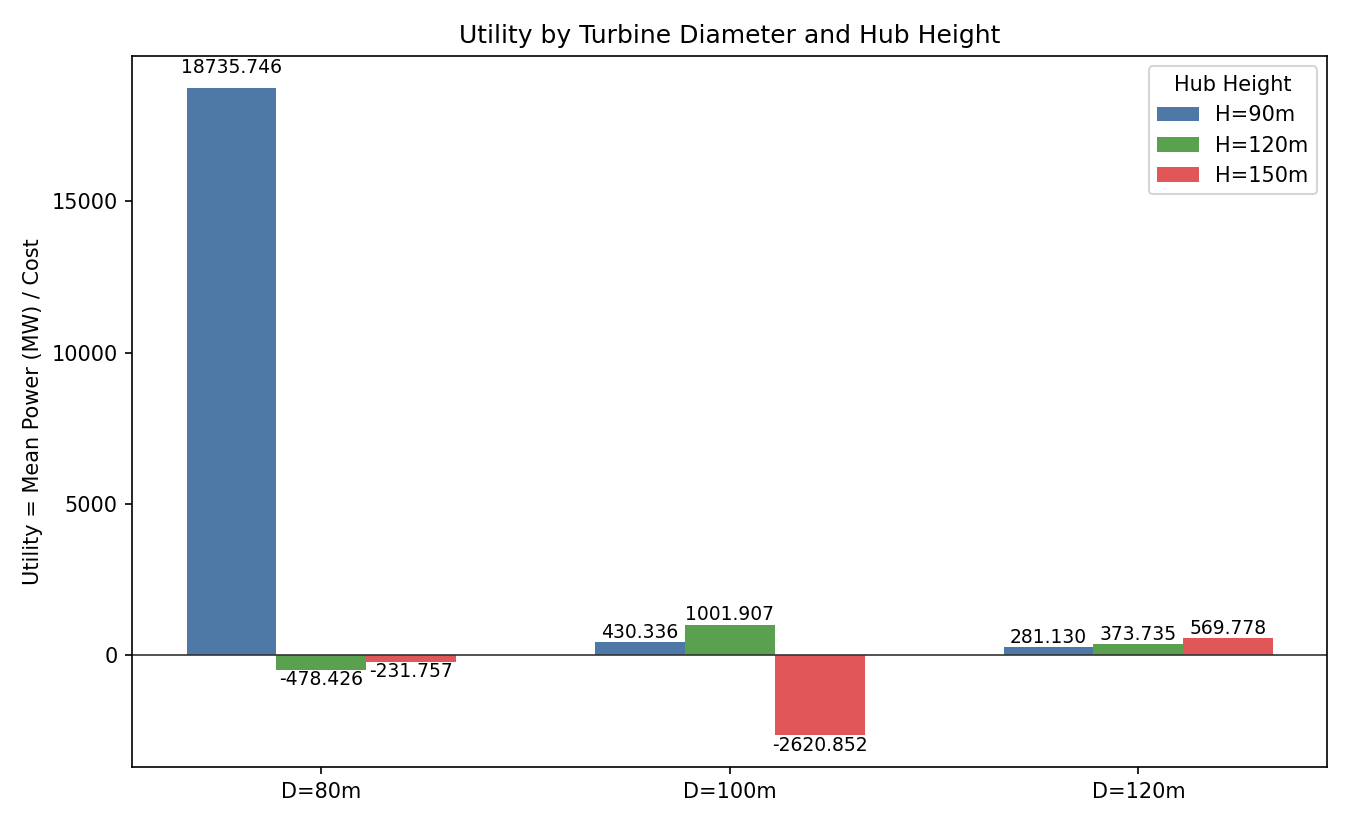
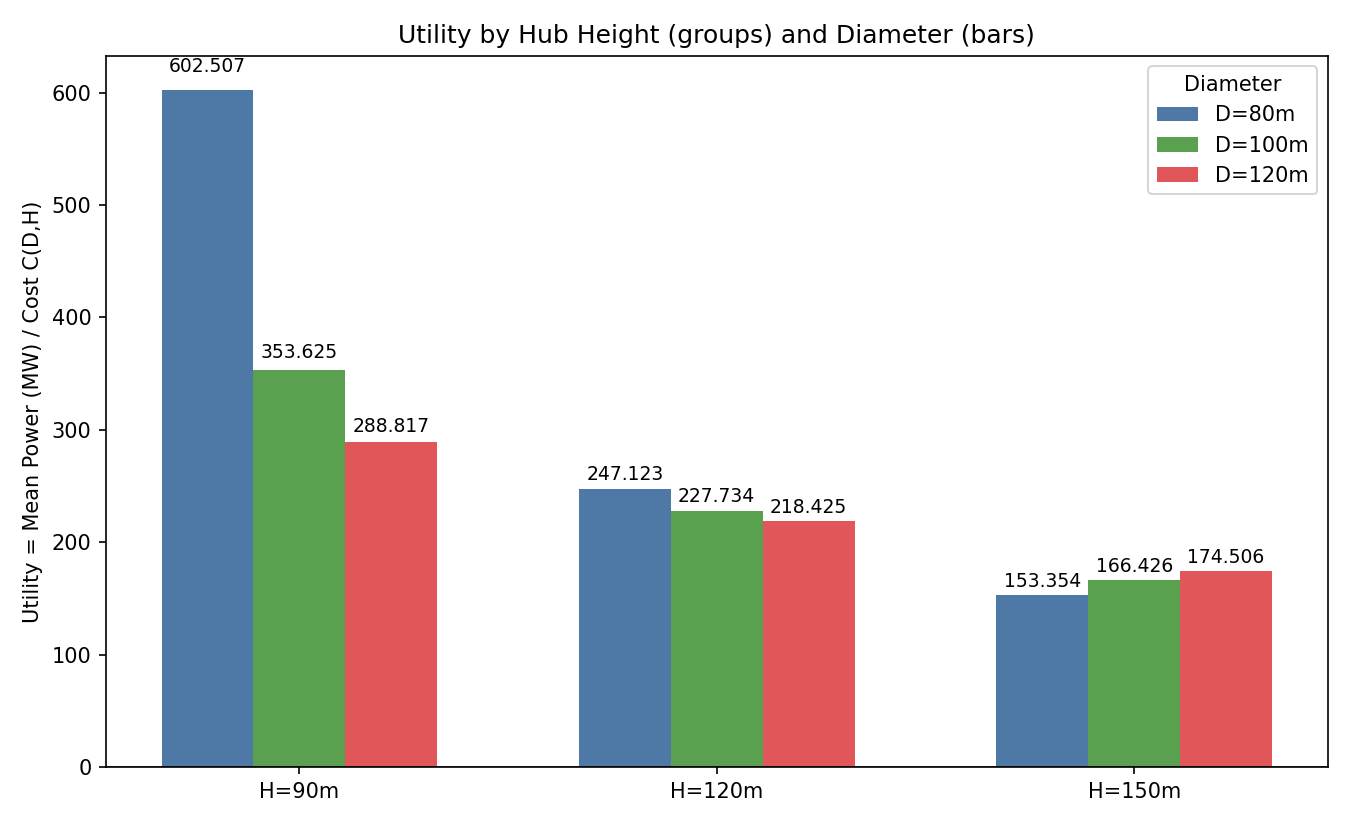
Add utility graph

diff --git a/plot_utility_q1_2.py b/plot_utility_q1_2.py
@@ -77,8 +77,11 @@ def power_mw(v: float, D: float) -> float:
 
 
 def cost(D: float, H: float) -> float:
-    """Cost approximation C = 0.2019343678*D^2 - 14.239267990*H (units arbitrary)."""
-    return 0.2019343678 * (D ** 2) - 14.239267990 * H
+    """Cost approximation using provided weights: C = w1*D^2 + w2*H + w3."""
+    w1 = 0.1557211415
+    w2 = 15.6249220271
+    w3 = -2065.5926440647
+    return w1 * (D ** 2) + w2 * H + w3
 
 
 def compute_mean_power(ws50_series: List[float], D: float, H: float) -> float:
@@ -117,28 +120,27 @@ def main() -> None:
             u = util[(D, H)]
             print(f"{int(D)},{int(H)},{mp:.6f},{c:.6f},{u:.8f}")
 
-    # Plot grouped bar chart: groups by D, bars for H
+    # Plot grouped bar chart: groups by H, bars for D
     fig, ax = plt.subplots(figsize=(9, 5.5))
-    x_positions = list(range(len(Ds)))
+    x_positions = list(range(len(Hs)))
     width = 0.22
     offsets = [-width, 0.0, width]
     colors = ["#4e79a7", "#59a14f", "#e15759"]
 
-    for idx_h, (H, offset, color) in enumerate(zip(Hs, offsets, colors)):
-        heights = [util[(D, H)] for D in Ds]
-        bars = ax.bar([x + offset for x in x_positions], heights, width=width, color=color, label=f"H={int(H)}m")
+    for idx_d, (D, offset, color) in enumerate(zip(Ds, offsets, colors)):
+        heights = [util[(D, H)] for H in Hs]
+        bars = ax.bar([x + offset for x in x_positions], heights, width=width, color=color, label=f"D={int(D)}m")
         # Annotate values on each bar
         for b in bars:
             h = b.get_height()
-            # position text slightly above top for positive, below for negative
             va = "bottom" if h >= 0 else "top"
             y = h + (0.02 * abs(h) + 1e-6) if h >= 0 else h - (0.02 * abs(h) + 1e-6)
             ax.text(b.get_x() + b.get_width()/2, y, f"{h:.3f}", ha="center", va=va, fontsize=9, rotation=0)
 
-    ax.set_xticks(x_positions, [f"D={int(D)}m" for D in Ds])
-    ax.set_ylabel("Utility = Mean Power (MW) / Cost")
-    ax.set_title("Utility by Turbine Diameter and Hub Height")
-    ax.legend(title="Hub Height")
+    ax.set_xticks(x_positions, [f"H={int(H)}m" for H in Hs])
+    ax.set_ylabel("Utility = Mean Power (MW) / Cost C(D,H)")
+    ax.set_title("Utility by Hub Height (groups) and Diameter (bars)")
+    ax.legend(title="Diameter")
     ax.axhline(0, color="#333", linewidth=0.8)
     fig.tight_layout()
 

diff --git a/need.md b/need.md
@@ -11,7 +11,10 @@ P(v)=
 6,  10<=v<=24
 0,  v>24
 
-风机成本造价使用C=0.2019343678*D^2-14.239267990*H进行近似计算
+风机成本造价使用C=w1*D^2+w2*H+w3进行近似计算，其中
+w1 = 0.1557211415
+w2 = 15.6249220271
+w3 = -2065.5926440647
 
 现在在对于的可能得(D,H)组合，计算对应的发电功率/成本的值作为其“效用性”
 并使用matplotlib将结果作柱状图，首先对于D将九个数据分成三组，每一组中再根据H分成三个柱，每个柱上方给出效用性的数字
